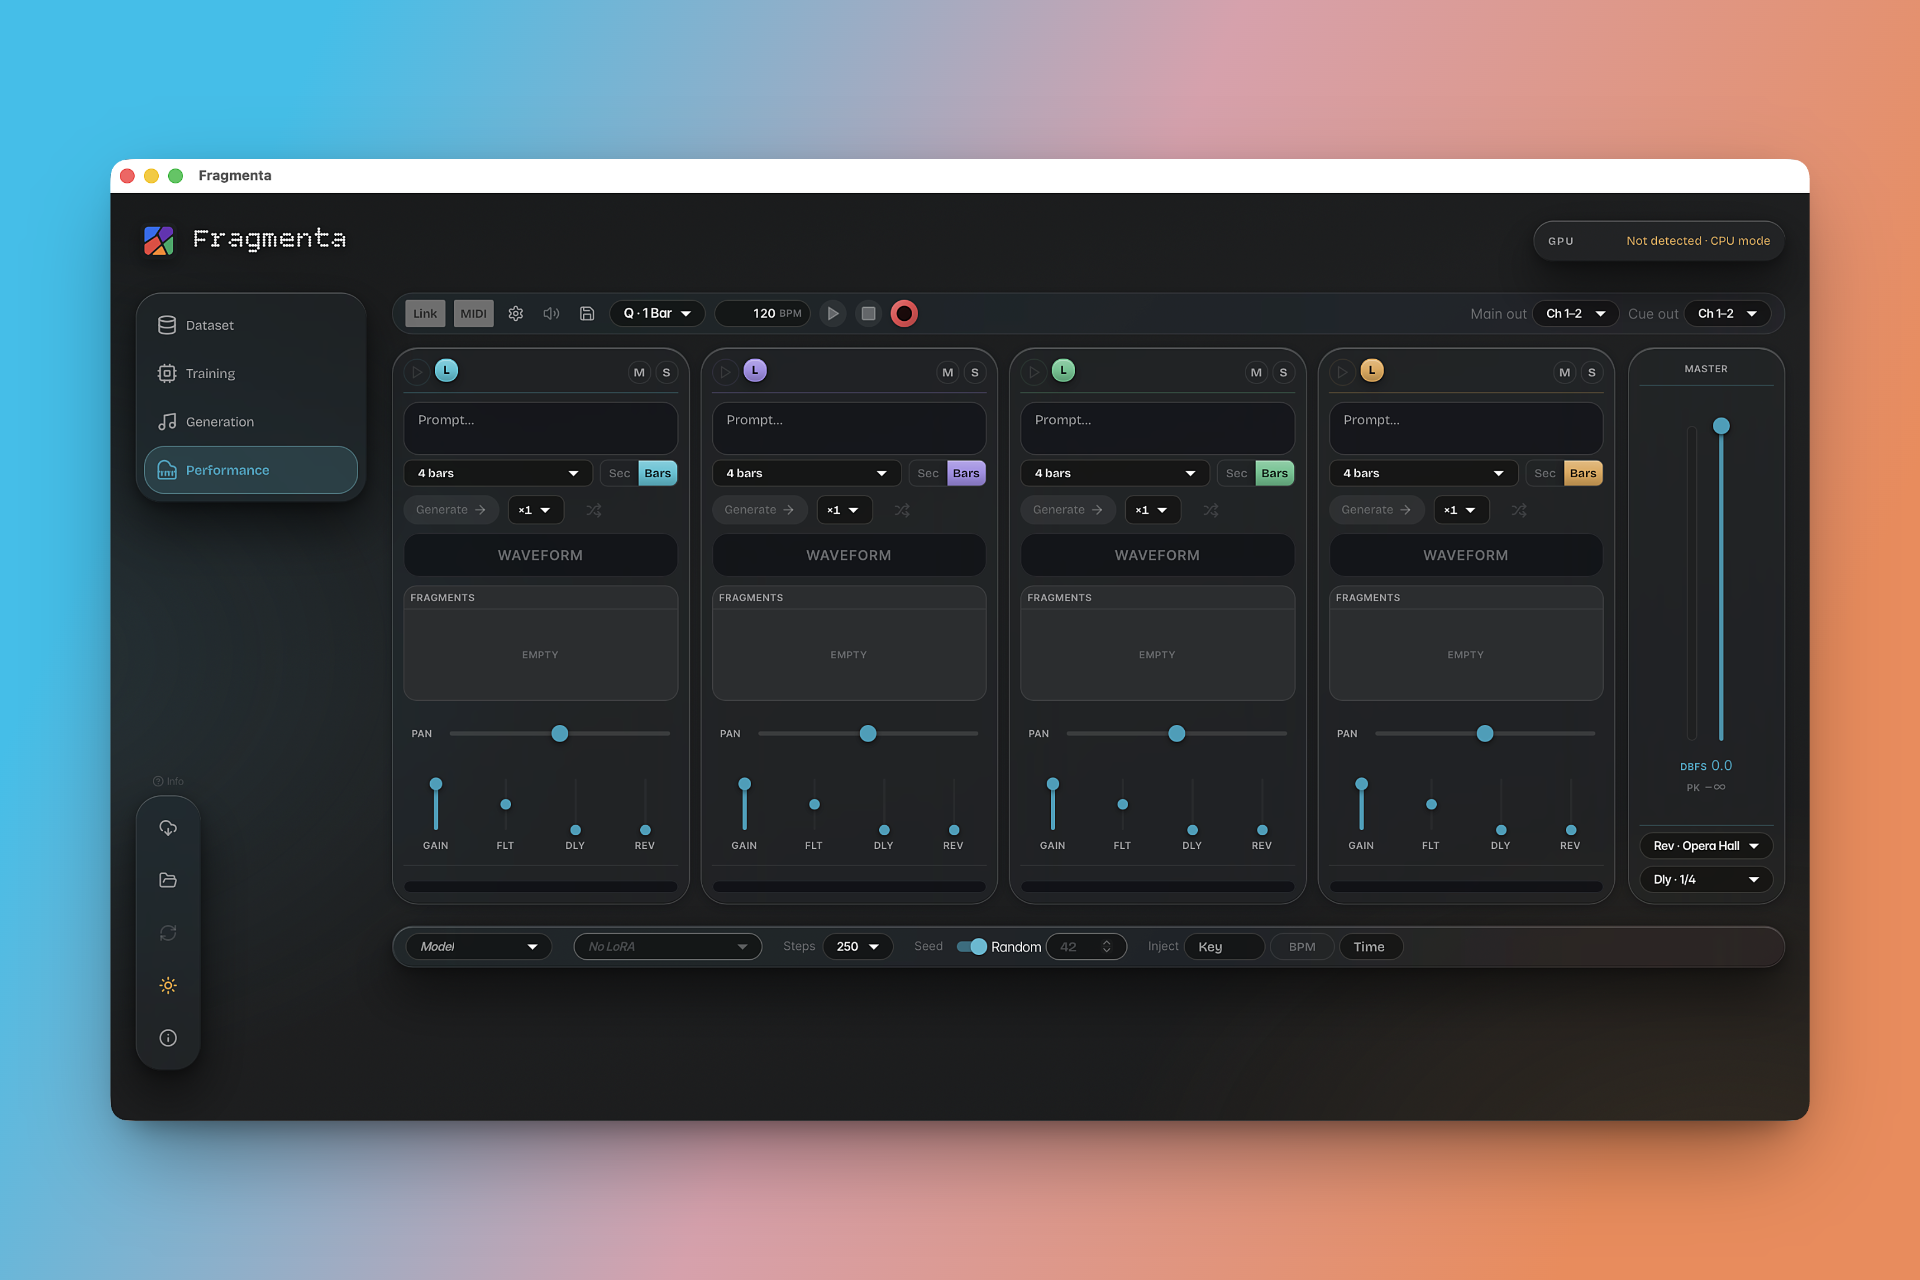
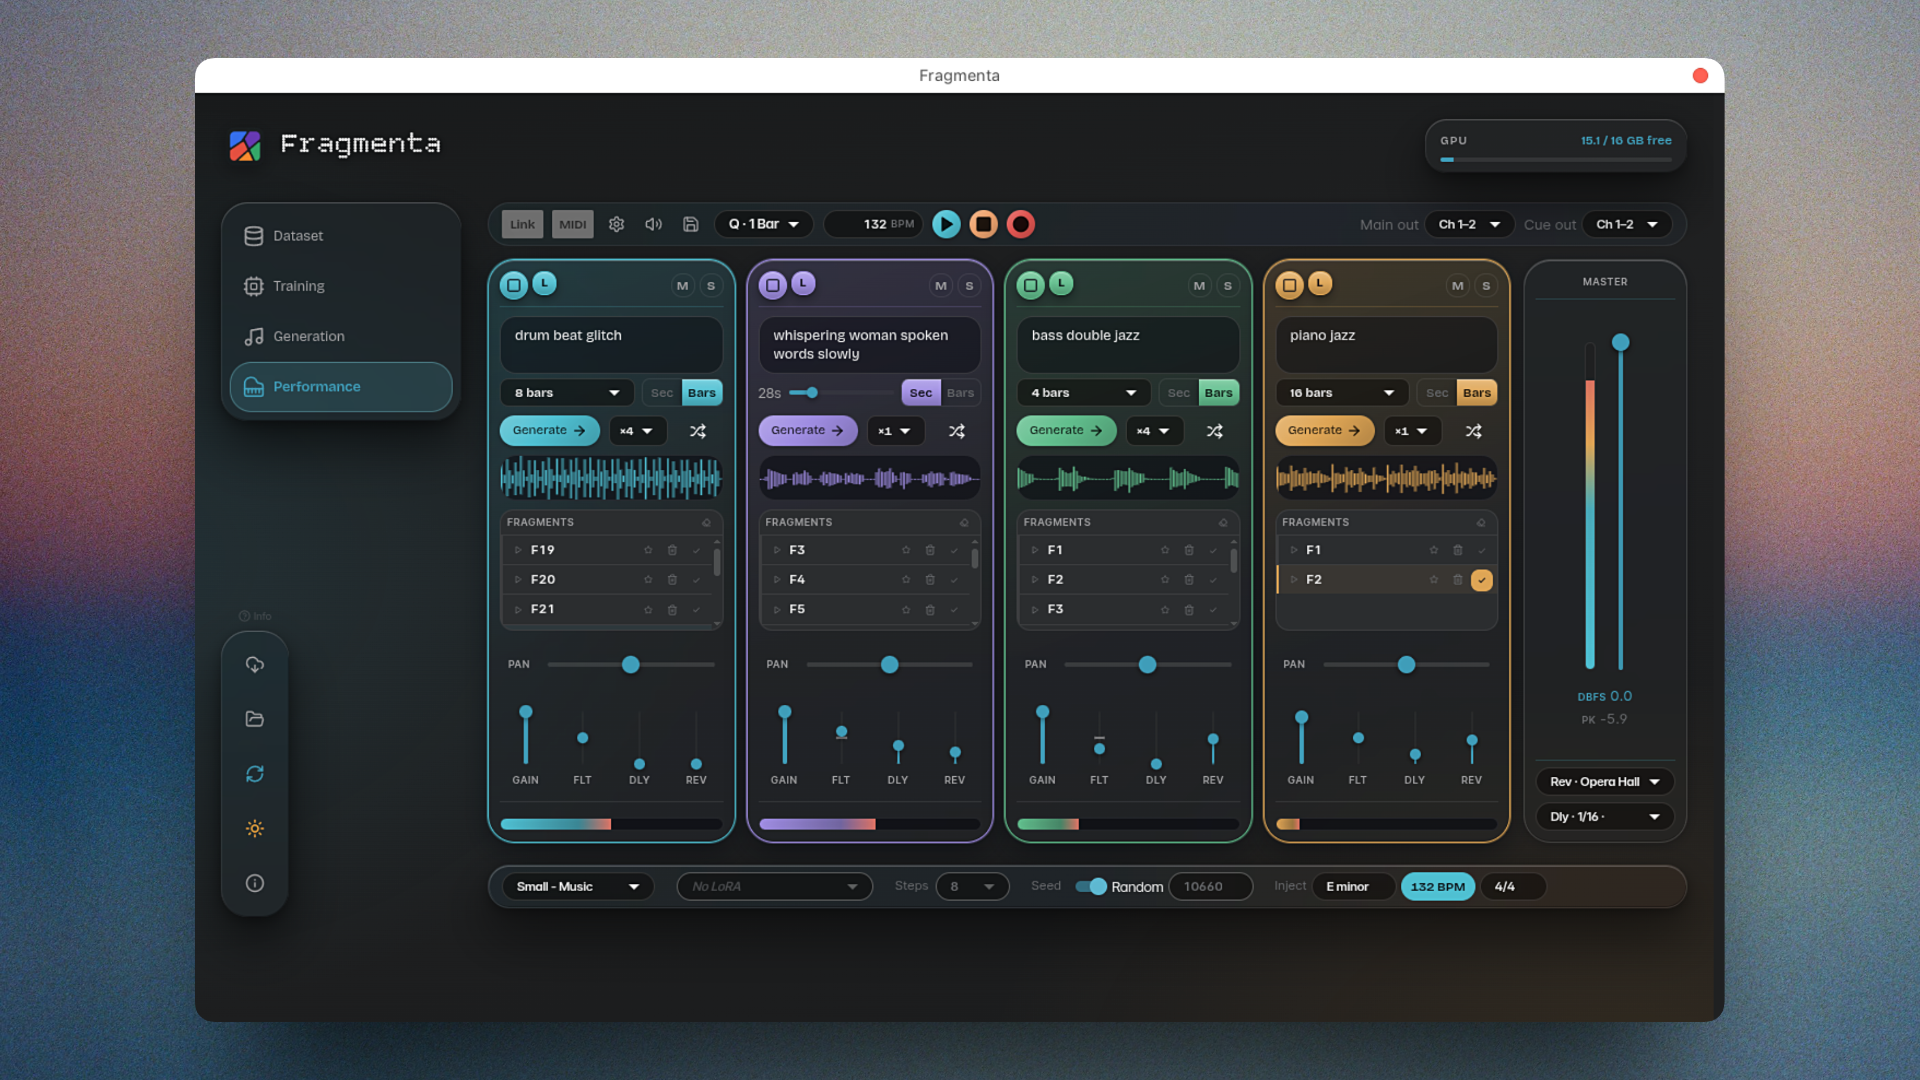
update README.md and interface.png

diff --git a/README.md b/README.md
@@ -15,18 +15,18 @@
 
 </div>
 
-Fragmenta brings GenAI audio generation to musicians, offering intuitive LoRA training, generation, audio editing, and live performance capabilities — powered by **Stable Audio 3**.
+Fragmenta brings GenAI audio generation to musicians, offering intuitive dataset creation, LoRA training, generation, audio editing, and live performance capabilities — powered by **Stable Audio 3**.
 
 > **Compatibility:** The previous Stable Audio Open engine has been removed; if you need it, use the [`v0.1.x-legacy`](https://github.com/MAz-Codes/fragmenta/releases) tag. 
 
-Fragmenta is an open-source pipeline for bringing personalised GenAI audio into a musical workflow — no coding or machine-learning knowledge required. It is built for experimental music and sonic arts, not high-fidelity commercial production, reflecting the artist-first approach to AI in my [PhD research](https://www.misaghazimi.com).
+Fragmenta is an open-source pipeline for bringing personalised text-to audio GenAI into a meaningful musical workflow — no coding is required. It is mainly built for experimental music and sonic arts in mind. Fragmenta reflects the parasitic, small-data, model-bending and artist-first approaches to AI that are fundamental to my [PhD research](https://www.misaghazimi.com).
 
 ---
 
 ## Features
 
-- **Desktop app** with a lightweight `pywebview` window and a pre-built React frontend — no Node.js or npm required
-- **Docker images** for GPU and CPU — run as a web app on any machine
+- **Desktop app** with a lightweight `pywebview` window and a pre-built React frontend.
+- **Docker images** for GPU and CPU — run as a web app on any machine.
 - **Bulk auto-annotation** — generate text prompts for your audio files via DSP analysis (Basic) or AI tagging with LAION-CLAP (Rich), with optional user-defined vocabulary
 - **Project-aware LoRA training** with configurable rank, steps, learning rate, batch size, checkpoint frequency, and precision — trains directly on a Dataset Workbench project
 - **LoRA adapters** — train DoRA/BoRA/-XS adapters on top of a frozen `*-base` checkpoint for consumer GPUs; stack up to 4 at once with per-slot strength, bypass, and reorder at generation time
@@ -147,7 +147,7 @@ Pick a project from the Dataset Workbench, choose an **adapter type** (`dora-row
 
 ### 3. Generate Audio
 
-Use base or fine-tuned models to generate audio from text prompts (1–11 s for the small model, 1–47 s for the 1.0 model). If you've trained a LoRA, a LoRA picker appears when you select a compatible base model — pick one and dial in a **multiplier** (0–2×) to control how strongly the adapter biases the output.
+Use base or fine-tuned models to generate audio from text prompts — up to 120 s on the Small models, 380 s on Medium. If you've trained a LoRA, a LoRA picker appears when you select a compatible base model — pick one and dial in a **multiplier** (0–2×) to control how strongly the adapter biases the output.
 
 **Settings:**
 - **CFG scale** — how closely the model follows your prompt (higher = stricter)